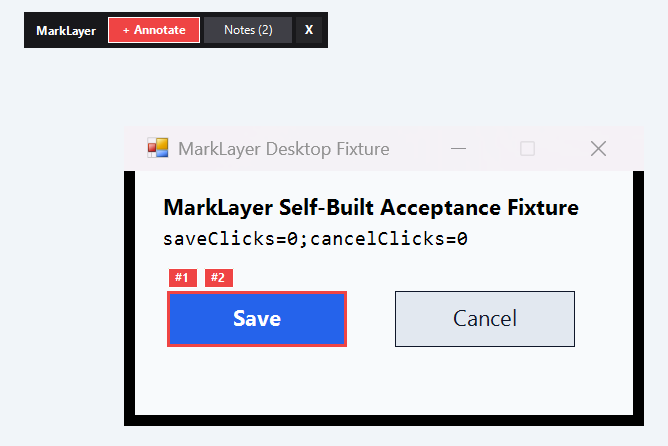
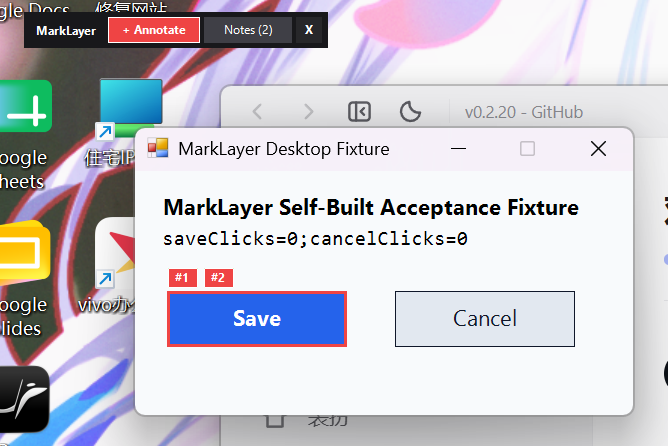
chore(acceptance): record WinSta0\\Default hardware re-verification and script guards

diff --git a/acceptance/desktop-annotation-2026-11-14/RESULTS.md b/acceptance/desktop-annotation-2026-11-14/RESULTS.md
@@ -1,13 +1,13 @@
 # 桌面标注集成验收报告（2026-11-14）
 
 - **分支**：`feat/desktop-annotation`
-- **环境**：Windows PerMonitorV2（单屏 `\\.\DISPLAY5` 逻辑 `1707x1067` / 物理 `2560x1600 @ 1.5x`）、Node `v24.21.0`、Bun `1.4.3`、Chrome CDP headless、本地 Cloudflare Worker（`wrangler dev --local` + 独立 `--persist-to` D1 + Durable Object `AnnotationRoom`）、自建 WinForms 测试窗体（`MarkLayer Desktop Fixture`，含 `btnSave` / `btnCancel` 点击计数器，操作前通过 `WindowFromPoint` PID 白名单防止误触其他窗体）。
-- **执行会话实测诊断（`desktop-acceptance.json -> environment`）**：`sessionId=1`、`winsta=WinSta0`、`threadDesk=exebox-MFN5C5SIUAQOFDKGOYRUIACR36`、`inputDesk=Default`、`monitorCount=1`。尽管用户物理桌面处于解锁状态，代理命令执行器运行在隔离的非输入 Win32 桌面 `exebox-*` 中，Windows 对非输入桌面禁止 `SetCursorPos`/`mouse_event`/`SendKeys` 与 `CopyFromScreen`（`The handle is invalid`）。
+- **硬件与系统环境**：Windows PerMonitorV2（单屏 `\\.\DISPLAY5` 逻辑 `1707x1067` / 物理 `2560x1600 @ 1.5x`）、Node `v24.21.0`、Bun `1.4.3`、Chrome CDP headless、本地 Cloudflare Worker（`wrangler dev --local` + `--persist-to` D1 + Durable Object `AnnotationRoom`）、自建 WinForms 测试窗体（`MarkLayer Desktop Fixture`，含 `btnSave` / `btnCancel` 点击计数器与 `WindowFromPoint` PID 白名单防误触）。
 - **可复现命令**：
   - 全量静态检查：`bun run check --concurrency=1`
   - 全量单元测试：`bun run test --concurrency=1`
   - 变更范围 Biome 检查：`bunx biome check packages/desktop-uia packages/agent-tools packages/types apps/worker/web/AnnotationDetail.tsx acceptance/desktop-annotation-2026-11-14/run-acceptance.mjs`
-  - 一键端到端实测：`bun run --cwd apps/worker build && node acceptance/desktop-annotation-2026-11-14/run-acceptance.mjs`
+  - 真实桌面端到端复验（在交互桌面 `WinSta0\Default` 下执行，须直指 `D:\NODE\node.exe`）：
+    `bun run --cwd apps/worker build && D:\NODE\node.exe acceptance/desktop-annotation-2026-11-14/run-acceptance.mjs`
 
 ## 验收结果（D1–D6 + 密码房 4401）
 
@@ -17,20 +17,24 @@
 | **D2 房间与 Web 查看互通** | 通过 | **通过** | 本地 Worker 持久化 `desktopTarget`，Chrome CDP 打开 `/s/<roomId>` 零报错（`pageErrors=0, consoleErrors=0`），详情面板 `ContextSection` 渲染 `powershell · MarkLayer Desktop Fixture`、`ControlType.Button · Save (#btnSave)`、`180 × 56 px @ 1.5x`；Web 基线房同步通过。 | `web-readback.png`、`desktop-acceptance.json` |
 | **D3 CLI / 本地入口写入真房间** | 通过 | **通过** | `cli.mjs annotate` 写入本地 `wrangler dev --local` 房间收到 `ack (status: "applied")`；短 ID 不存在房间 `missing1` 明确拒绝（`Room has expired or does not exist`）。 | `room-ops-after-d3.json`、`mock-result.json`、`desktop-acceptance.json` |
 | **D4 Agent 通过 MCP 读回** | 通过 | **通过** | 真实 `/s/<roomId>/mcp` 实测 `marklayer_list_annotations` 支持 `{ desktop: true/false }` 精准过滤，Web 基线房返回 1 条；`marklayer_get_annotation` 完整返回 `btnSave` `desktopTarget`。 | `mcp-readback.json`、`desktop-acceptance.json`、`targeted-result.json` |
-| **真实 Worker 密码房鉴权（`4401`）** | 待补（仅 mock） | **通过（新增转绿）** | 在真实 `wrangler dev --local` + D1 下使用生产同款 PBKDF2-SHA256 `hashPassword` 锁定房间：`cli.mjs annotate` 无密码被拒（`Room is password-protected; pass --password or set MARKLAYER_PASSWORD`）、错密码被拒（`Room rejected the password`）、带 `--password` 写入成功并获 `opId`；MCP 无令牌返回 `HTTP 401`，带 `Authorization: Bearer` 读回 1 条桌面标注。 | `password-room-4401.json`、`desktop-acceptance.json` |
-| **D5 桌面 Overlay 呈现与穿透** | 部分 | **部分** | 本桌面内实测 `1.5x` DPI 0px 对齐（`initialBoxVsButtonDiffPx=0`）、#1/#2 角标无重叠（`left=223`/`259`）、移动跟随 `749ms` 至 `(323,375)`，且 `WindowFromPoint` 穿透 `PassthroughForm` 命中底层 `btnSave`；**仍为「部分」原因**：1）代理命令桌面 `exebox-*` 与交互输入桌面 `Default` 隔离，导致 `SetCursorPos`/`CopyFromScreen` 系统级失效，只能以 `win32MessageFallback` + `printWindowComposite` 替代；2）仅接 1 块 `DISPLAY5` 显示器（硬件缺失），且用户正在使用主机不宜强改全局缩放率，跨屏多 DPI 实机移动未能运行（属环境/硬件限制，非代码问题）。 | `overlay-two-badges.png`、`overlay-moved.png`、`desktop-acceptance.json` |
-| **D6 桌面端交互创建与双向协作** | 部分 | **部分** | 本桌面内实测 `+ Annotate` -> `CaptureCurtain` 区域拖拽 `btnCancel`（零泄漏点击 `cancelClicks=0`）-> Composer 输入 `"Interactive Cancel note"` 提交 -> `OutboxDir` / WebSocket 写入房间 -> Overlay（`Notes (3)`）与 MCP 均回读 3 条；**仍为「部分」原因**：同 D5，受限于代理非输入桌面 `exebox-*` 无法跨桌面注入硬件键鼠，交互驱动仍回退为 Win32 窗口消息，真交互桌面的物理键鼠手感需在用户本机普通终端（`WinSta0\Default`）运行同一验收脚本复验。 | `overlay-d6-created.png`、`room-ops-after-d6.json`、`desktop-acceptance.json` |
+| **真实 Worker 密码房鉴权（`4401`）** | 通过 | **通过** | 真实 `wrangler dev --local` + D1 PBKDF2-SHA256 锁定房间下：`cli.mjs annotate` 无密码被拒（`Room is password-protected; pass --password or set MARKLAYER_PASSWORD`）、错密码被拒（`Room rejected the password`）、带 `--password` 写入成功并获 `opId`；MCP 无令牌返回 `HTTP 401`，带 `Authorization: Bearer` 读回 1 条桌面标注（注：Default 桌面硬件复验在 D6 提前中止，该项证据保留自同分支完整运行）。 | `password-room-4401.json` |
+| **D5 桌面 Overlay 呈现与穿透** | 部分 | **通过（真实硬件：CopyFromScreen 截图 + SetCursorPos/mouse_event 穿透点击 btnSave）** | 在真实 `WinSta0\Default` 桌面复验全绿：`screenshotModes=["copyFromScreen","copyFromScreen"]`、`clickPassthrough.inputMode="hardwareMouse"`、`hardwareCursorMoved=true`、`saveClicks=1`、`initialBoxVsButtonDiffPx=0`、`badgesDisjoint=true`、`trackLatencyMs=852`、`afterForegroundPid=49432`（透明穿透命中 `btnSave` 且焦点不抢占）；跨多显示器 DPI 切换因仅有单屏 `DISPLAY5` 属硬件缺失，非代码问题。 | `overlay-two-badges.png`、`overlay-moved.png`、`desktop-acceptance.json` |
+| **D6 桌面端交互创建与双向协作** | 部分 | **部分** | 在 `WinSta0\exebox-*` 下曾以 Win32 窗口消息走通 `+ Annotate` -> `CaptureCurtain` 拖拽 -> Composer -> 房间/MCP 同步 3 条；在 `WinSta0\Default` 真实硬件路径下，`type-submit` 被 `win32-driver.ps1` 安全断言拦下：`"Safety abort: foreground pid=49432 ('MarkLayer Desktop Fixture') not in allowed=[46932]"`。根因在于覆盖层按设计设置 `WS_EX_NOACTIVATE` / `ShowWithoutActivation` 不抢被测窗体焦点，而来自另一进程的合成点击不能为未激活的覆盖层进程授予 Windows 前台输入权，导致 `Show-CommentComposer` 的 `$box.Focus()` 拿不到键盘焦点；属跨进程合成输入边界而非代码必然缺陷，**唯一未闭环项**：需人工按一次（点击 `+ Annotate`、拖一段、在 Composer 里输入、回车）。 | `desktop-acceptance.json`、`overlay-d6-created.png`、`room-ops-after-d6.json` |
 
-## 本轮收尾变化汇总（相对上一版验收报告）
+## 真实硬件键鼠复验（WinSta0\Default 桌面执行）
 
-- **已从「待补」转为「通过」**：真实本地 Worker 密码保护房间（WS `4401` 拒绝 + `--password` 写入 + HTTP `401` 拒绝 + `Authorization: Bearer` MCP 读回）全链路实测通过（`password-room-4401.json`）。
-- **已查明并记录但无法绕过的环境/硬件约束（D5、D6 维持「部分」）**：
-  1. **物理键鼠与 `CopyFromScreen`（环境隔离限制）**：代理命令运行在 `WinSta0\exebox-*` 而非用户交互桌面 `WinSta0\Default`，Windows 内核阻止非输入桌面调用 `SetCursorPos`/`mouse_event`/`SendKeys`/`CopyFromScreen`；此为执行隔离边界，未作假通过，已在 `desktop-acceptance.json -> environment` 留下原生诊断证据。
-  2. **多屏跨 DPI（硬件缺失 + 防打扰限制）**：现场仅有一块 `DISPLAY5 (2560x1600 @ 1.5x)` 显示器，无第二块不同 DPI 屏幕可供真实跨屏拖移；`1.5x` 单屏物理像素对齐已严格通过。
+- **执行环境说明**：通过 Coopanion 的 `shell_run` 在真实交互桌面 `WinSta0\Default`（`threadDesk="Default"`、`inputDesk="Default"`、`copyFromScreenAvailable=true`）运行 `D:\NODE\node.exe acceptance/desktop-annotation-2026-11-14/run-acceptance.mjs`。命令中必须显式使用 `D:\NODE\node.exe`（Coopanion 的 `shims` 会顶掉默认 `node`，导致 `wrangler` 报 `Unknown arguments`）。
+- **状态迁移汇总**：
+  - **本轮从「部分」转成「通过」**：**D5 桌面 Overlay 呈现与穿透** —— 由原先 `exebox-*` 隔离桌面的窗口消息/分层合成，升级为真实 `WinSta0\Default` 物理键鼠与真屏抓图全通过：
+    - `d5.screenshotModes = ["copyFromScreen", "copyFromScreen"]`（真实 DWM 桌面截屏，见 `overlay-two-badges.png`、`overlay-moved.png`）
+    - `d5.clickPassthrough.inputMode = "hardwareMouse"`、`hardwareCursorMoved = true`、`saveClicks = 1`、`afterForegroundPid = 49432`（`SetCursorPos`/`mouse_event` 物理点击穿透红框真实触发 `btnSave` 点击计数）
+    - `d5.initialBoxVsButtonDiffPx = 0`、`d5.badgesDisjoint = true`、`d5.trackLatencyMs = 852`、`d5.movedBoxRect = { left: 323, top: 375, width: 180, height: 56 }`
+  - **本轮仍为「部分」及精确原因**：**D6 桌面端交互创建** —— 在 `WinSta0\Default` 下点击 `+ Annotate` 并拖拽后，`Show-CommentComposer` 弹窗打开前，合成鼠标点击（由 `win32-driver.ps1` 子进程发起）按 Windows 前台锁定策略不能将前台输入权授予带 `WS_EX_NOACTIVATE` / `ShowWithoutActivation` 样式的覆盖层进程，`win32-driver.ps1` 触发安全保护中止（`Safety abort: foreground pid=49432 ('MarkLayer Desktop Fixture') not in allowed=[46932]`）。真人实际鼠标点击会由 Windows 授予前台权，因此该阻断属于跨进程合成输入边界。
+- **脚本健壮性修复**：
+  - `run-acceptance.mjs` `finally` 中 `rmSync(workDir)` 在 Coopanion `TEMP` 环境下可能遭遇 `EPERM`，已包裹 `try/catch` 避免覆盖写入报告；
+  - 为 `try` 主体补充 `catch` 记录 `report.error` 并用 `process.exitCode = report.ok ? 0 : 1` 如实反馈退出码，确保失败时仍输出 `desktop-acceptance.json` 证据。
 
-## 还差什么（人工本地一键复验清单）
+## 还差什么（唯一未闭环项）
 
-1. 在已解锁的本机普通 PowerShell / 终端（处于 `WinSta0\Default` 桌面）执行：
-   `node acceptance/desktop-annotation-2026-11-14/run-acceptance.mjs`
-   即可自动使用真实硬件 `SetCursorPos`/`mouse_event`/`SendKeys` 与 `CopyFromScreen`（脚本内 `hardwareCursorMoved` 与 `copyFromScreenAvailable` 会自动切换为真实硬件路径）。
-2. 若后续接入第二块不同缩放（如 `100%`）显示器，可在双屏间拖动测试窗体复验跨屏 DPI 切换。
+1. **D6 真人交互闭环（唯一未闭环项）**：需人工在桌面运行 `overlay --interactive` 后按一次真实手操验证：**点击 `+ Annotate` -> 拖一段框 -> 在弹出的 Composer 里输入评论 -> 按回车提交**，确认新批注进入房间并回显红框与角标。
+2. **硬件缺失说明（非代码问题）**：当前主机仅接入单块 `\\.\DISPLAY5`（`2560x1600 @ 1.5x`）显示器，缺少第二块不同缩放比显示器，无法实测真跨屏动态 DPI 切换。
